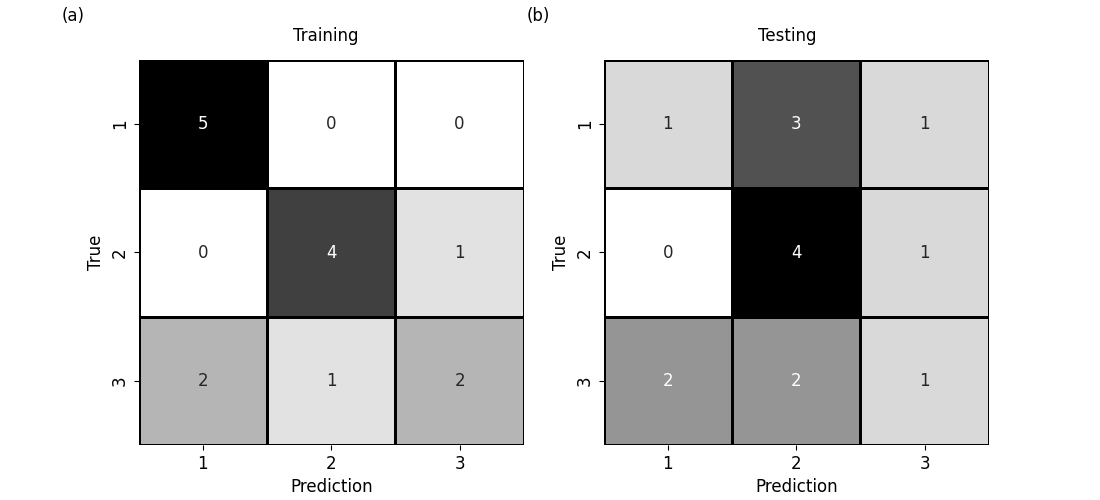
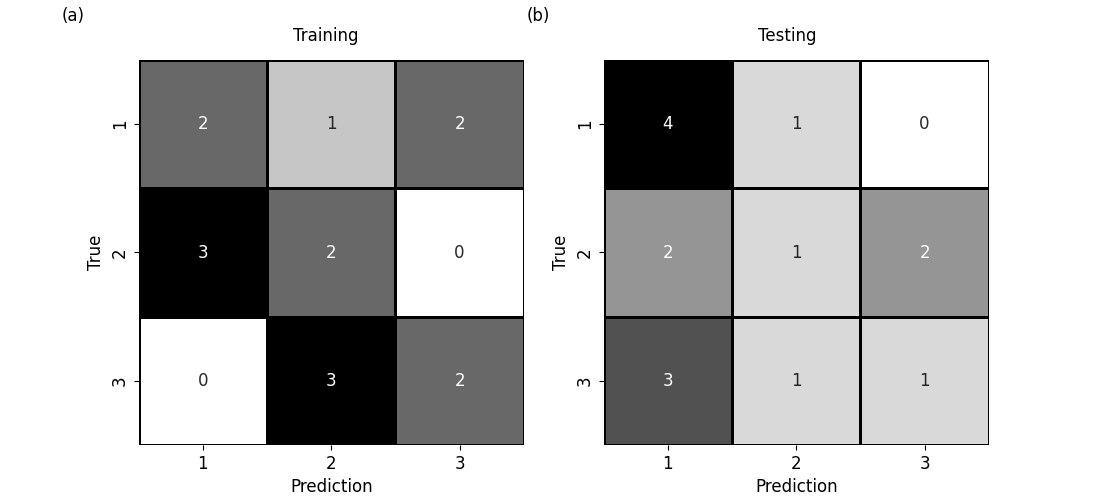
qrc

diff --git a/code/qrc_classification.py b/code/qrc_classification.py
@@ -47,6 +47,10 @@ from sklearn.metrics import confusion_matrix
 
 
 np.random.seed(seed=0)
+N_u = 6
+N_y = 3
+q = 4
+label_array = [[[0,1,1,1],[0,-1,-1,-1],[0,-1,-1,-1]],[[0,-1,-1,-1],[0,1,1,1],[0,-1,-1,-1]],[[0,-1,-1,-1],[0,-1,-1,-1],[0,1,1,1]]] # (N_y, N_y, 4)
 
 # 音声信号を前処理したデータ(コクリアグラム)の読み込み
 def read_motion_data(dir_name, motion_train_list):
@@ -60,9 +64,6 @@ def read_motion_data(dir_name, motion_train_list):
     # データに関する情報
     n_time = 200  # サンプル数
     n_motion = 3  # ラベル数(motionの数)
-    N_u = 6
-    N_y = 1
-    q = 4 # quaternion
 
     # 初期化
     train_input = np.empty((0, N_u, q))  # 教師入力
@@ -91,8 +92,8 @@ def read_motion_data(dir_name, motion_train_list):
                 # 入力データ
                 train_input = np.vstack((train_input, data)) # [N_u*4] * n_time
                 # 出力データ（n_time x n_label，値はすべて'-1'）
-                tmp = -np.ones((n_time, 1, 4))
-                tmp[:, :, label] = 1  # labelの列のみ1
+                tmp = np.zeros((n_time, N_y, 4))
+                tmp[:] = label_array[label-1]
                 train_output = np.vstack((train_output, tmp))
                 # データ長
                 train_length = np.hstack((train_length, n_time))
@@ -102,8 +103,8 @@ def read_motion_data(dir_name, motion_train_list):
                 # 入力データ
                 test_input = np.vstack((test_input, data)) # [N_u*4] * n_time
                 # 出力データ（n_time x n_label，値はすべて'-1'）
-                tmp = np.ones((n_time, 1, 4))
-                tmp[:, :, label] = 1  # labelの列のみ1
+                tmp = np.zeros((n_time, N_y, 4))
+                tmp[:] = label_array[label-1]
                 test_output = np.vstack((test_output, tmp))
                 # データ長
                 test_length = np.hstack((test_length, n_time))
@@ -155,7 +156,7 @@ def rot(W,x):
         s = np.vstack((s, np.sum(tmp,axis=0)))
     return s
 
-N_x_list = [10,15,20,25,30]
+N_x_list = np.arange(3,15)
 for N_x in N_x_list:
     # 訓練データ，検証データの取得
     n_motion = 3  # ラベル数
@@ -174,8 +175,8 @@ for N_x in N_x_list:
     test_WER = np.empty(0)
 
     # ESNモデル
-    model = ESN(train_input.shape[1], train_output.shape[1], N_x,
-                density=1, input_scale=0.1, rho=0.8, fb_scale=0.0)
+    model = ESN(N_u, N_y, N_x,
+                density=1, input_scale=1, rho=0.8, fb_scale=0.0)
 
     ########## 訓練データに対して
     # リザバー状態行列
@@ -191,17 +192,25 @@ for N_x in N_x_list:
     # 学習（疑似逆行列）
     # Wout = np.dot(teachCollectMat.T, np.linalg.pinv(stateCollectMat.T))
 
-    
+    lr =  1e-4
 
+    label_array = [[[0,1,1,1],[0,-1,-1,-1],[0,-1,-1,-1]],[[0,-1,-1,-1],[0,1,1,1],[0,-1,-1,-1]],[[0,-1,-1,-1],[0,-1,-1,-1],[0,1,1,1]]] # (N_y, N_y, 4)
+    err_array = np.zeros((train_length[0], N_y, N_y, 4))
+    err_value = np.zeros((train_length[0], N_y))
     # ラベル出力
-    Y_pred, Wout = model.adapt(train_input,train_output,SGD(N_x, train_output.shape[1], lr=0.01))
+    Y_pred, Wout, err_train = model.adapt(train_input,train_output,SGD(N_x, N_y, lr))
     pred_train = np.empty(0, np.int)
     start = 0
     # print(len(train_length))
     for i in range(len(train_length)): # 訓練データの数
-        tmp = Y_pred[start:start+train_length[i],0]  # 1つのデータに対する出力　??
-        max_index = np.argmax(tmp[:,1:], axis=1)+1  # 最大出力を与える出力ノード番号
-        histogram = np.bincount(max_index)  # 出力ノード番号のヒストグラム
+        tmp = Y_pred[start:start+train_length[i]]  # (train_length[i], N_y, N_y, 4)
+        for j in range(N_y):
+            err_array = tmp - [label_array[j]]*train_length[i] # (train_length[i], N_y, 4)
+            for k in range(train_length[i]):
+                err_value[i,j] = np.linalg.norm(norm_array(err_array[k]))           
+        max_index = np.argmax(err_value[i])+1  # 最大出力を与える出力ノード番号
+        # print(err_value[i], max_index)
+        histogram = np.bincount([max_index])  # 出力ノード番号のヒストグラム
         pred_train = np.hstack((pred_train, np.argmax(histogram)))  # 最頻値 
         start = start + train_length[i]
     # print(pred_train)
@@ -210,12 +219,16 @@ for N_x in N_x_list:
     for i in range(len(train_length)):
         if pred_train[i] != train_label[i]:
             count = count + 1 
-    print("訓練誤差： WER = %5.4lf" % (count/len(train_length)))
-    train_WER = np.hstack((train_WER, count/len(train_length)))
+    
+    # train_WER = np.hstack((train_WER, count/len(train_length)))
     # 混同行列
     cm_train = confusion_matrix(train_label-1, pred_train-1, range(n_motion))
     print("正解率： ACC = %5.4lf" % (np.sum(np.diag(cm_train))/len(test_length)))
     print(cm_train)
+    # print(err_train[0:10])
+    # t = [x for x in range(len(train_length)*200)]
+    # plt.plot(t, err_train)
+    plt.savefig(os.path.join("img", "err_qrc_Node"+str(N_x)))
         
     ########## 検証データに対して
     # リザバー状態行列
@@ -228,22 +241,26 @@ for N_x in N_x_list:
     pred_test = np.empty(0, np.int)
     start = 0
     for i in range(len(test_length)):
-        tmp = Y_pred[start:start+test_length[i],0]  # 1つのデータに対する出力
-        max_index = np.argmax(tmp[:,1:], axis=1)+1  # 最大出力を与える出力ノード番号
-        histogram = np.bincount(max_index)  # 出力ノード番号のヒストグラム
-        pred_test = np.hstack((pred_test, np.argmax(histogram)))  # 最頻値
-        start = start + test_length[i]
-        
+        tmp = Y_pred[start:start+test_length[i]]  # (test_length[i], N_y, N_y, 4)
+        for j in range(N_y):
+            err_array = tmp - [label_array[j]]*train_length[i] # (test_length[i], N_y, 4)
+            for k in range(train_length[i]):
+                err_value[i,j] = np.linalg.norm(norm_array(err_array[k]))           
+        max_index = np.argmax(err_value[i])+1  # 最大出力を与える出力ノード番号
+        histogram = np.bincount([max_index])  # 出力ノード番号のヒストグラム
+        pred_test = np.hstack((pred_test, np.argmax(histogram)))  # 最頻値 
+        start = start + train_length[i]
+    # print(err_value[0:10,:])
     # 検証誤差(WER)
     count = 0
     for i in range(len(test_length)):
         if pred_test[i] != test_label[i]:
             count = count + 1 
     
-    test_WER = np.hstack((test_WER, count/len(test_length)))
+    # test_WER = np.hstack((test_WER, count/len(test_length)))
     # 混同行列
     cm_test = confusion_matrix(test_label-1, pred_test-1, range(n_motion))
-    print("検証誤差： WER = %5.4lf" % (count/len(test_length)))
+    # print("検証誤差： WER = %5.4lf" % (count/len(test_length)))
     print("正解率： ACC = %5.4lf" % (np.sum(np.diag(cm_test))/len(test_length)))
     print(cm_test)
         
@@ -270,4 +287,4 @@ for N_x in N_x_list:
     plt.ylabel('True')
 
     plt.savefig(os.path.join("img", "qrc_Node"+str(N_x)))   
-    plt.show()
+    # plt.show()

diff --git a/code/qrc_model.py b/code/qrc_model.py
@@ -62,7 +62,7 @@ class Reservoir:
         N = np.array(connection)
         # print(W)
         # 非ゼロ要素を一様分布に従う乱数として生成
-        rec_scale = 1e-1
+        rec_scale = 1e-2
         np.random.seed(seed=self.seed)
         W = np.random.uniform(-rec_scale, rec_scale, (N_x, N_x,4))
         N *= np.random.uniform(-rec_scale, rec_scale, (N_x, N_x))
@@ -225,7 +225,7 @@ class RLS:
 
 # 確率的勾配法（SGD）法
 class SGD:
-    def __init__(self, N_x, N_y, lr , seed = 0 , input_scale = 1e-2):
+    def __init__(self, N_x, N_y, lr , seed = 0 , input_scale = 1e-1):
         '''
         param N_x: リザバーのノード数
         param N_y: 出力次元
@@ -425,6 +425,7 @@ class ESN:
     def adapt(self, U, D, optimizer):
         data_len = len(U)
         Y_pred = []
+        err = []
         # Wout_abs_mean = []
 
         # 出力結合重み更新
@@ -439,13 +440,14 @@ class ESN:
             # モデル出力
             y = rot(Wout, x)
             Y_pred.append(y)
-            if n % 100 == 0:
-                print('進捗: %.2lf' % (n/data_len))
+            # if n % 100 == 0:
+            #     print('進捗: %.2lf' % (n/data_len))
             # Wout_abs_mean.append(np.mean(np.abs(Wout)))
             # if n < 10:
                 # print(Wout)
-            # print(Wout)
-        return np.array(Y_pred), Wout
+            err.append(np.linalg.norm(y-d))
+            # print(y, d)
+        return np.array(Y_pred), Wout, err
         # , np.array(Wout_abs_mean)
 
 def outer_product(a, b):

diff --git a/code/rc_classification.py b/code/rc_classification.py
@@ -116,7 +116,7 @@ def read_motion_data(dir_name, motion_train_list):
            test_input, test_output, test_length, test_label
 
 
-N_x_list = np.arange(300, 400, 10)
+N_x_list = np.arange(10,100,10)
 for N_x in N_x_list:
     # 訓練データ，検証データの取得
     n_label = 3  # ラベル数
